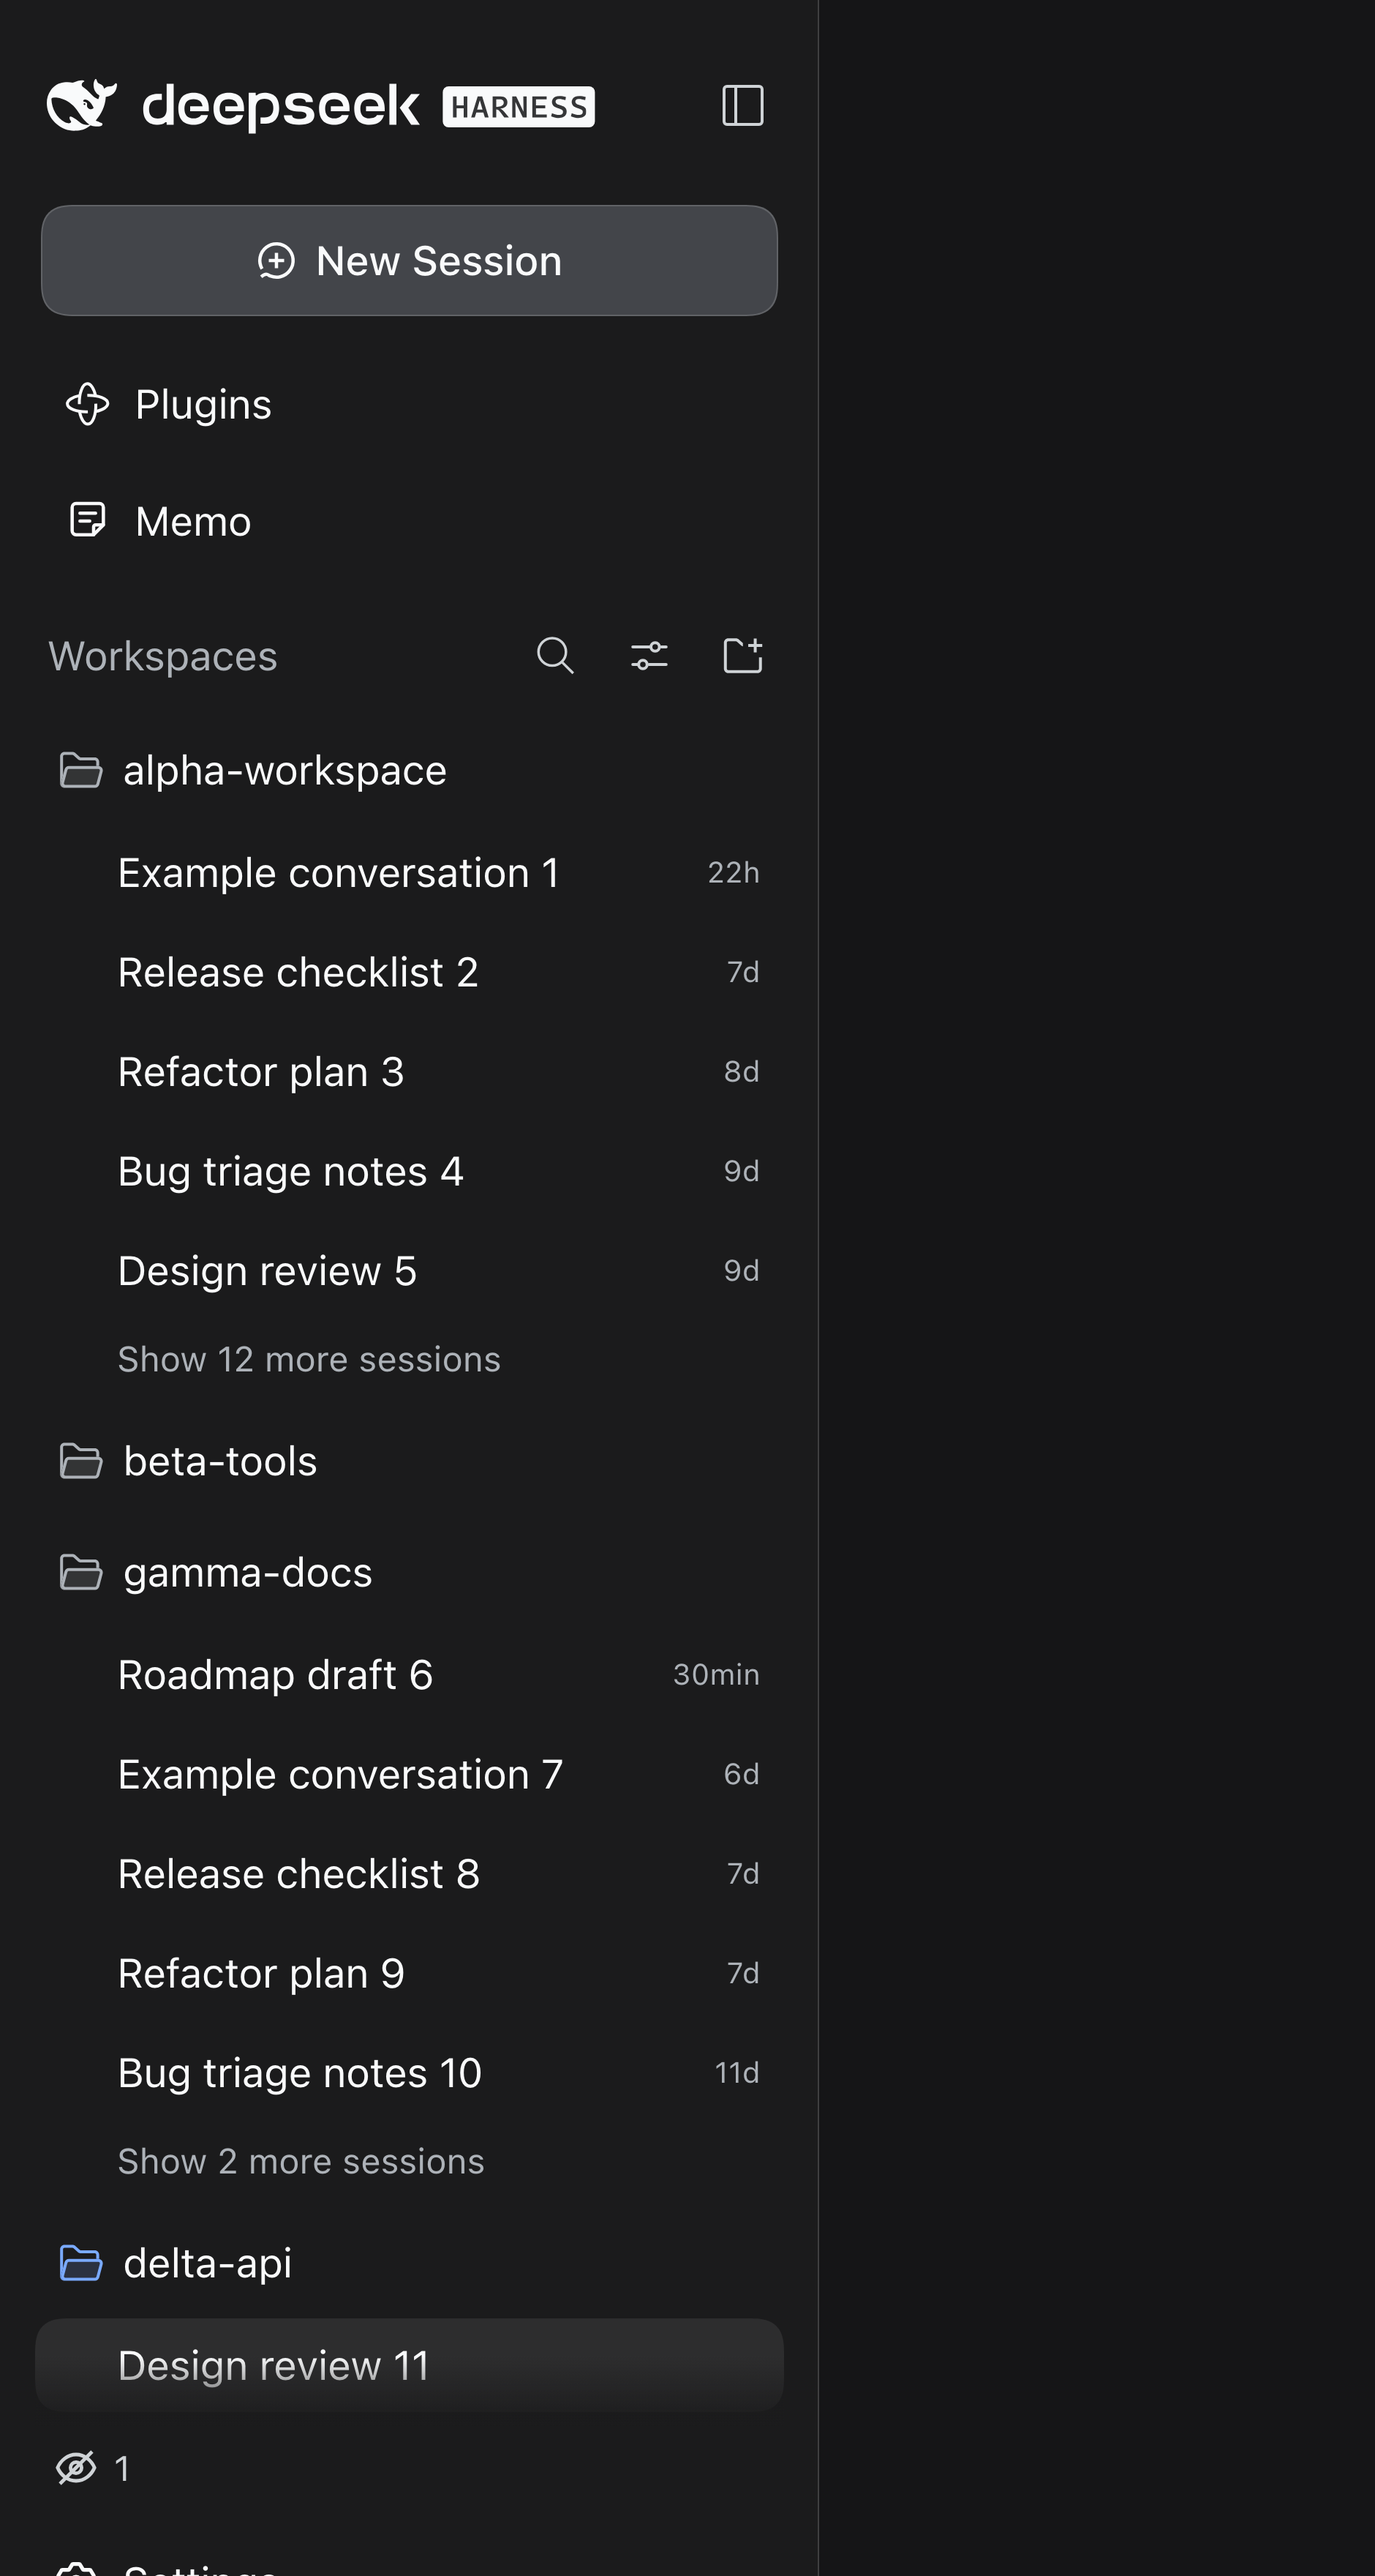
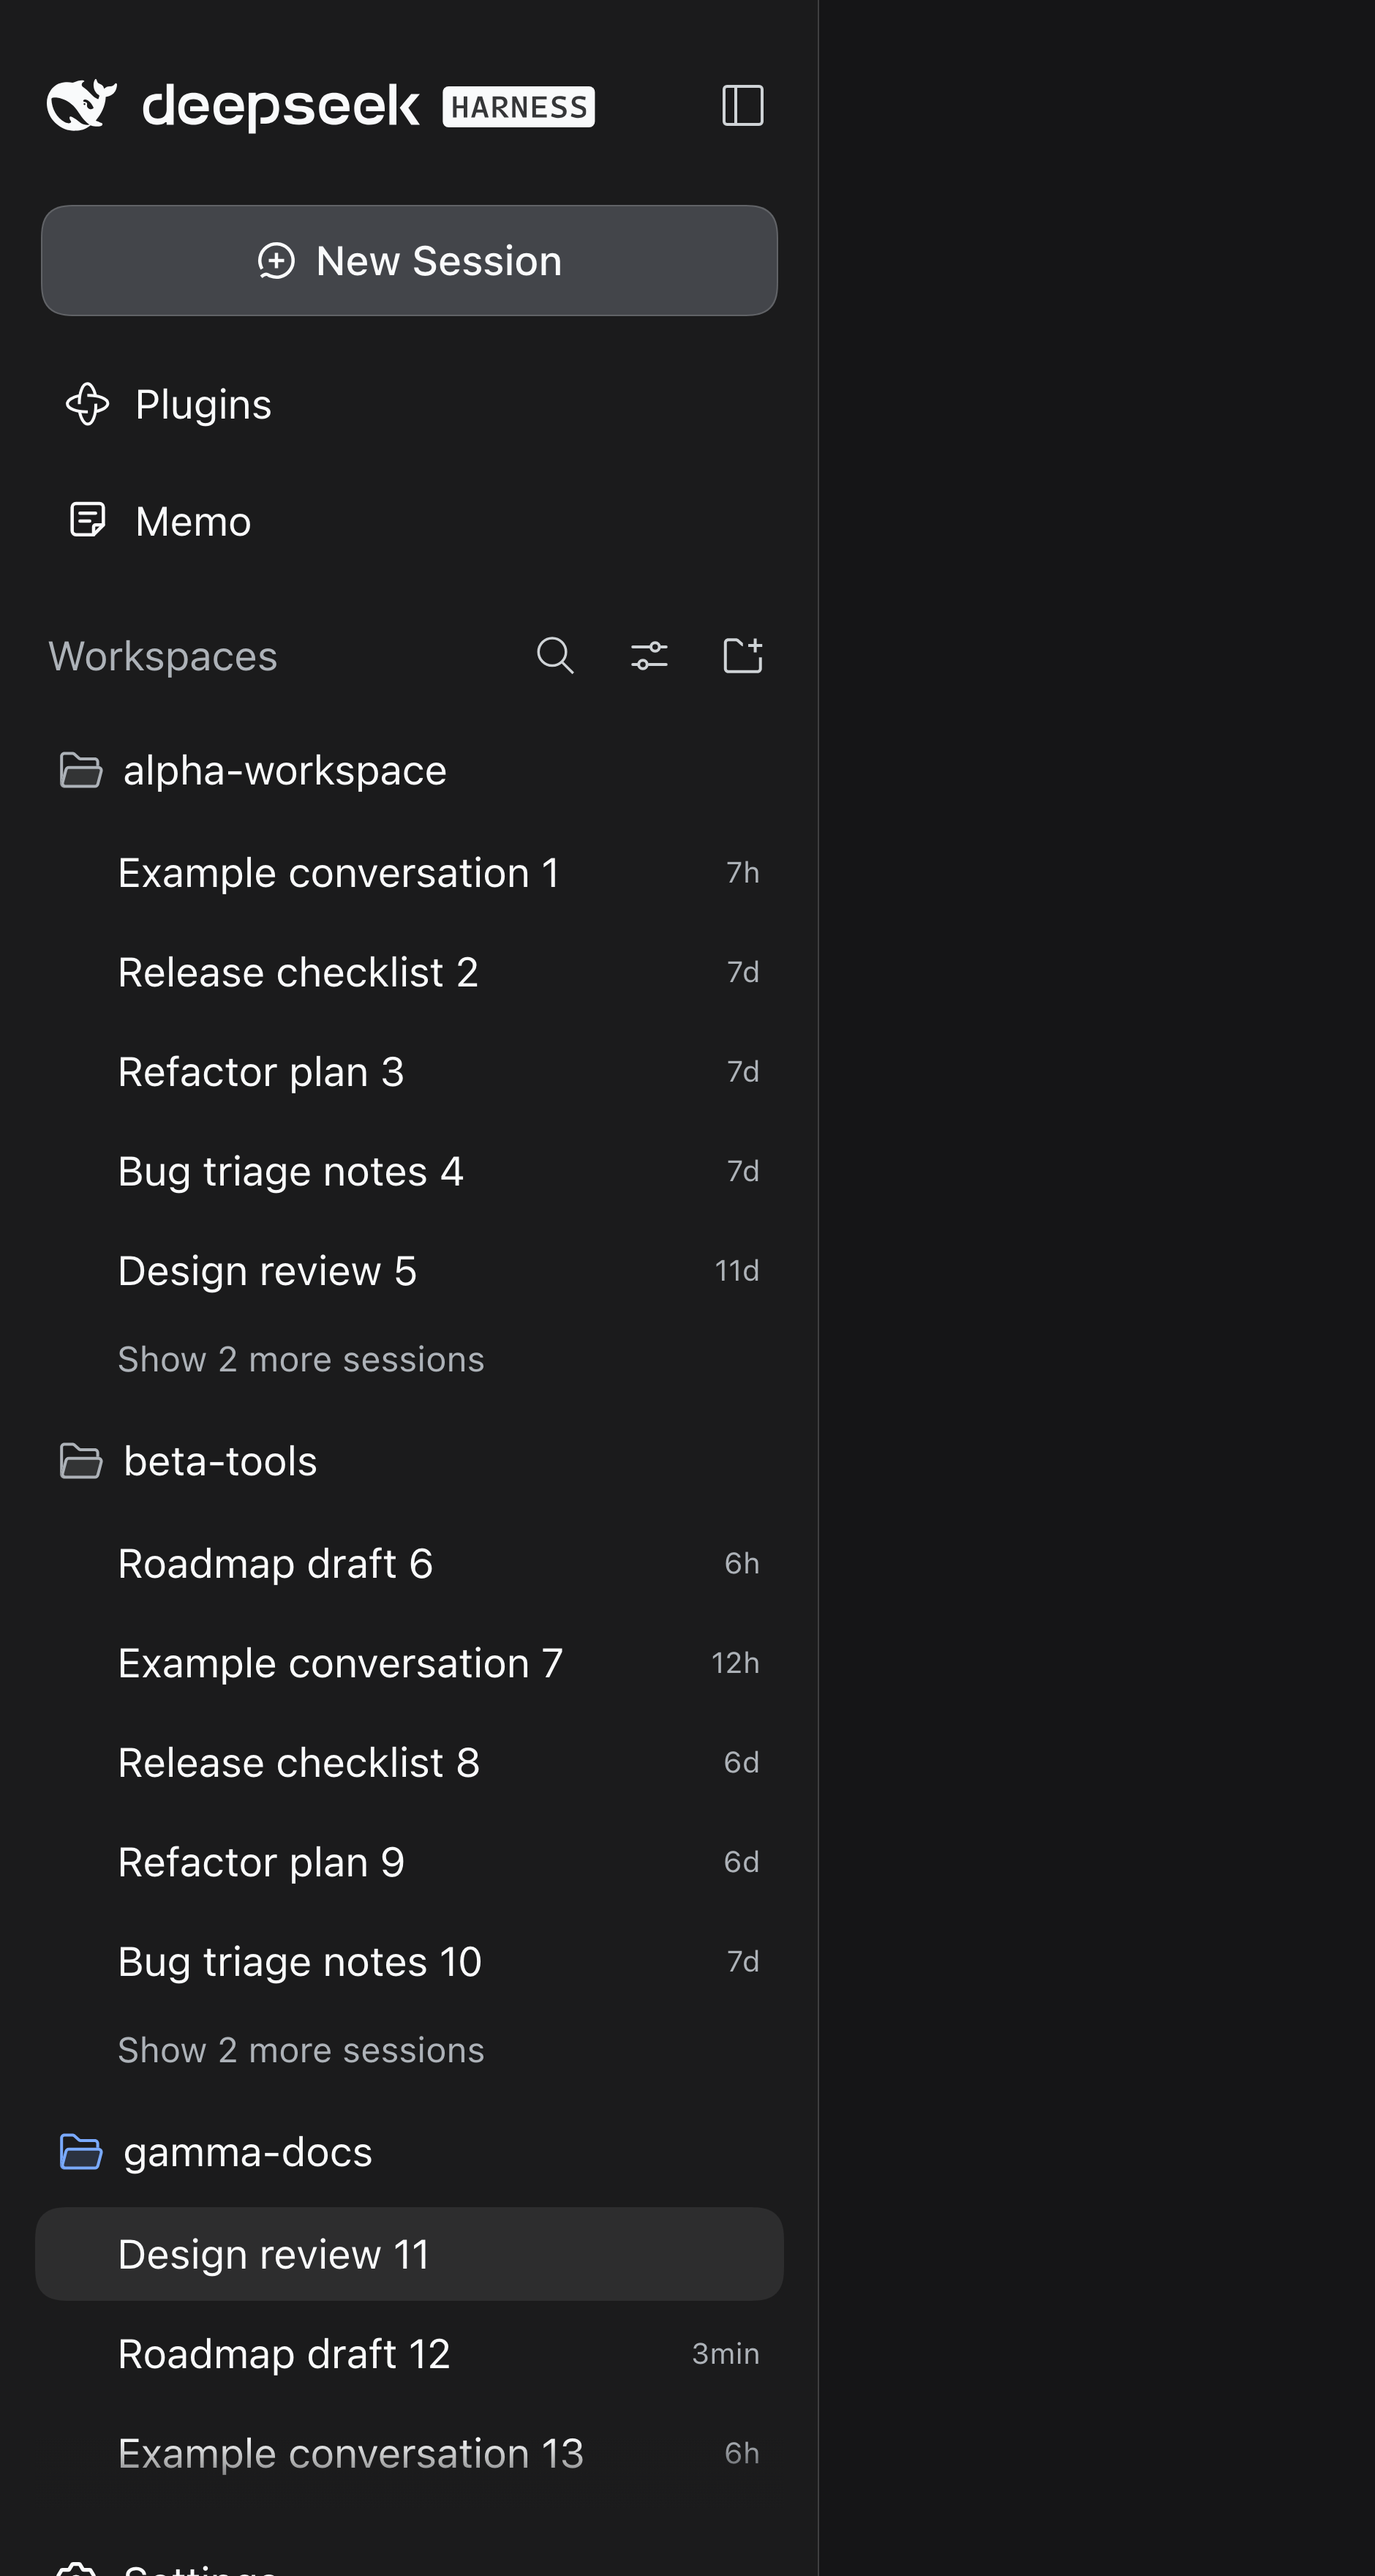
docs: refresh screenshots for the footer removal and hidden count
Chinese + English captures now show the sidebar without the removed foot
entry, the View options entry with its count (e.g. "显示隐藏工作区 (3)" /
"Show hidden workspaces (3)"). 0.2.7.

diff --git a/CHANGELOG.md b/CHANGELOG.md
@@ -6,6 +6,14 @@ and the project adheres to [Semantic Versioning](https://semver.org/).
 
 ## [Unreleased]
 
+## [0.2.7] — 2026-10-20
+
+### Docs
+
+- Refreshed the screenshots for 0.2.5/0.2.6: the sidebar-foot entry is gone, and the View
+  options screenshot shows the hidden count, e.g. "Show hidden workspaces (3)" /
+  "显示隐藏工作区 (3)".
+
 ## [0.2.6] — 2026-10-20
 
 ### Added
